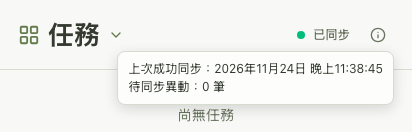
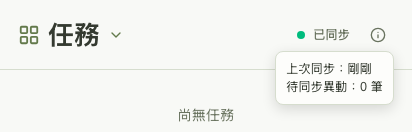
feat: show relative time in sync details

diff --git a/web/src/components/sync-status-indicator.tsx b/web/src/components/sync-status-indicator.tsx
@@ -1,4 +1,4 @@
-import { useId, useState } from 'react'
+import { useEffect, useId, useState } from 'react'
 import { Info } from 'lucide-react'
 import { useQueryClient } from '@tanstack/react-query'
 import { Button } from '@/components/ui/button'
@@ -24,8 +24,30 @@ const colors = {
   conflict: 'bg-red-500',
 } as const
 
-export function SyncStatusIndicator() {
+function LastSynced({ timestamp }: { timestamp: string }) {
   const { locale, t } = useLanguage()
+  const [now, setNow] = useState(Date.now)
+  useEffect(() => {
+    const timer = window.setInterval(() => setNow(Date.now()), 1000)
+    return () => clearInterval(timer)
+  }, [])
+
+  const seconds = Math.floor((now - Date.parse(timestamp)) / 1000)
+  const format = new Intl.RelativeTimeFormat(locale)
+  let ago = t('syncJustNow')
+  if (seconds >= 86_400)
+    ago = format.format(-Math.floor(seconds / 86_400), 'day')
+  else if (seconds >= 3600)
+    ago = format.format(-Math.floor(seconds / 3600), 'hour')
+  else if (seconds >= 60)
+    ago = format.format(-Math.floor(seconds / 60), 'minute')
+  else if (seconds >= 5) ago = format.format(-seconds, 'second')
+
+  return <time dateTime={timestamp}>{t('syncLastSuccessfulAt', ago)}</time>
+}
+
+export function SyncStatusIndicator() {
+  const { t } = useLanguage()
   const client = useQueryClient()
   const descriptionId = useId()
   const detailsId = useId()
@@ -35,12 +57,6 @@ export function SyncStatusIndicator() {
   if (status === 'disabled') return null
 
   const label = t(labels[status])
-  const lastSuccessful = last_successful_at
-    ? new Intl.DateTimeFormat(locale, {
-        dateStyle: 'medium',
-        timeStyle: 'medium',
-      }).format(new Date(last_successful_at))
-    : undefined
   const showDetails = detailsOpen || preview
   function refresh() {
     if (isDesktop()) {
@@ -112,9 +128,12 @@ export function SyncStatusIndicator() {
       </Button>
       <div className="sync-status-details" id={detailsId} hidden={!showDetails}>
         <div>
-          {lastSuccessful
-            ? t('syncLastSuccessfulAt', lastSuccessful)
-            : t('syncNotYetSuccessful')}
+          {showDetails &&
+            (last_successful_at ? (
+              <LastSynced timestamp={last_successful_at} />
+            ) : (
+              t('syncNotYetSuccessful')
+            ))}
         </div>
         <div>{t('syncUnsyncedCount', unsynced_count)}</div>
       </div>

diff --git a/web/e2e/sync-status.spec.ts b/web/e2e/sync-status.spec.ts
@@ -39,7 +39,7 @@ test('reports initial sync, disconnection, failure, and manual recovery', async 
   await expect(status).toHaveAttribute('data-sync-status', 'synced')
   await expect(status).toHaveAccessibleDescription('已同步')
   await details.tap()
-  await expect(page.getByText(/^上次成功同步：/)).toBeVisible()
+  await expect(page.getByText('上次同步：剛剛')).toBeVisible()
   await details.tap()
 
   await context.setOffline(true)
@@ -55,6 +55,38 @@ test('reports initial sync, disconnection, failure, and manual recovery', async 
   failPull = false
   await status.tap()
   await expect(status).toHaveAttribute('data-sync-status', 'synced')
+})
+
+test('updates the English relative time while sync details are open', async ({
+  context,
+  page,
+}) => {
+  await page.clock.install()
+  await page.addInitScript(() => localStorage.setItem('famo.language', 'en'))
+  await page.route('**/api/sync/collections', (route) =>
+    route.fulfill({ json: { version: 0, projects: [], boards: [] } }),
+  )
+  await page.route('**/api/sync/pull?*', (route) =>
+    route.fulfill({ json: { changes: [], cursor: 0, has_more: false } }),
+  )
+  await page.goto('/')
+  await expect(page.locator('[data-sync-status]')).toHaveAttribute(
+    'data-sync-status',
+    'synced',
+  )
+  await context.setOffline(true)
+  await page.getByRole('button', { name: 'Sync details' }).tap()
+  await expect(page.getByText('Last synced: just now')).toBeVisible()
+  await expect(page.getByText('Unsynced changes: 0')).toBeVisible()
+
+  await page.clock.fastForward(6000)
+  await expect(page.getByText('Last synced: 6 seconds ago')).toBeVisible()
+  await page.clock.fastForward(54_000)
+  await expect(page.getByText('Last synced: 1 minute ago')).toBeVisible()
+  await page.clock.fastForward(3_540_000)
+  await expect(page.getByText('Last synced: 1 hour ago')).toBeVisible()
+  await page.clock.fastForward(82_800_000)
+  await expect(page.getByText('Last synced: 1 day ago')).toBeVisible()
 })
 
 test('keeps green during quick syncs and turns yellow during slow ones', async ({

diff --git a/web/src/lib/messages.ts b/web/src/lib/messages.ts
@@ -325,7 +325,8 @@ export const messages = {
   syncStatusError: ['同步失敗', 'Sync failed'],
   syncStatusConflict: ['同步衝突', 'Sync conflict'],
   syncDetails: ['同步詳細資訊', 'Sync details'],
-  syncLastSuccessfulAt: ['上次成功同步：{1}', 'Last successful sync: {1}'],
+  syncLastSuccessfulAt: ['上次同步：{1}', 'Last synced: {1}'],
+  syncJustNow: ['剛剛', 'just now'],
   syncNotYetSuccessful: ['尚未成功同步', 'No successful sync yet'],
   syncUnsyncedCount: ['待同步異動：{1} 筆', 'Unsynced changes: {1}'],
   syncURL: ['同步網址', 'Sync URL'],
